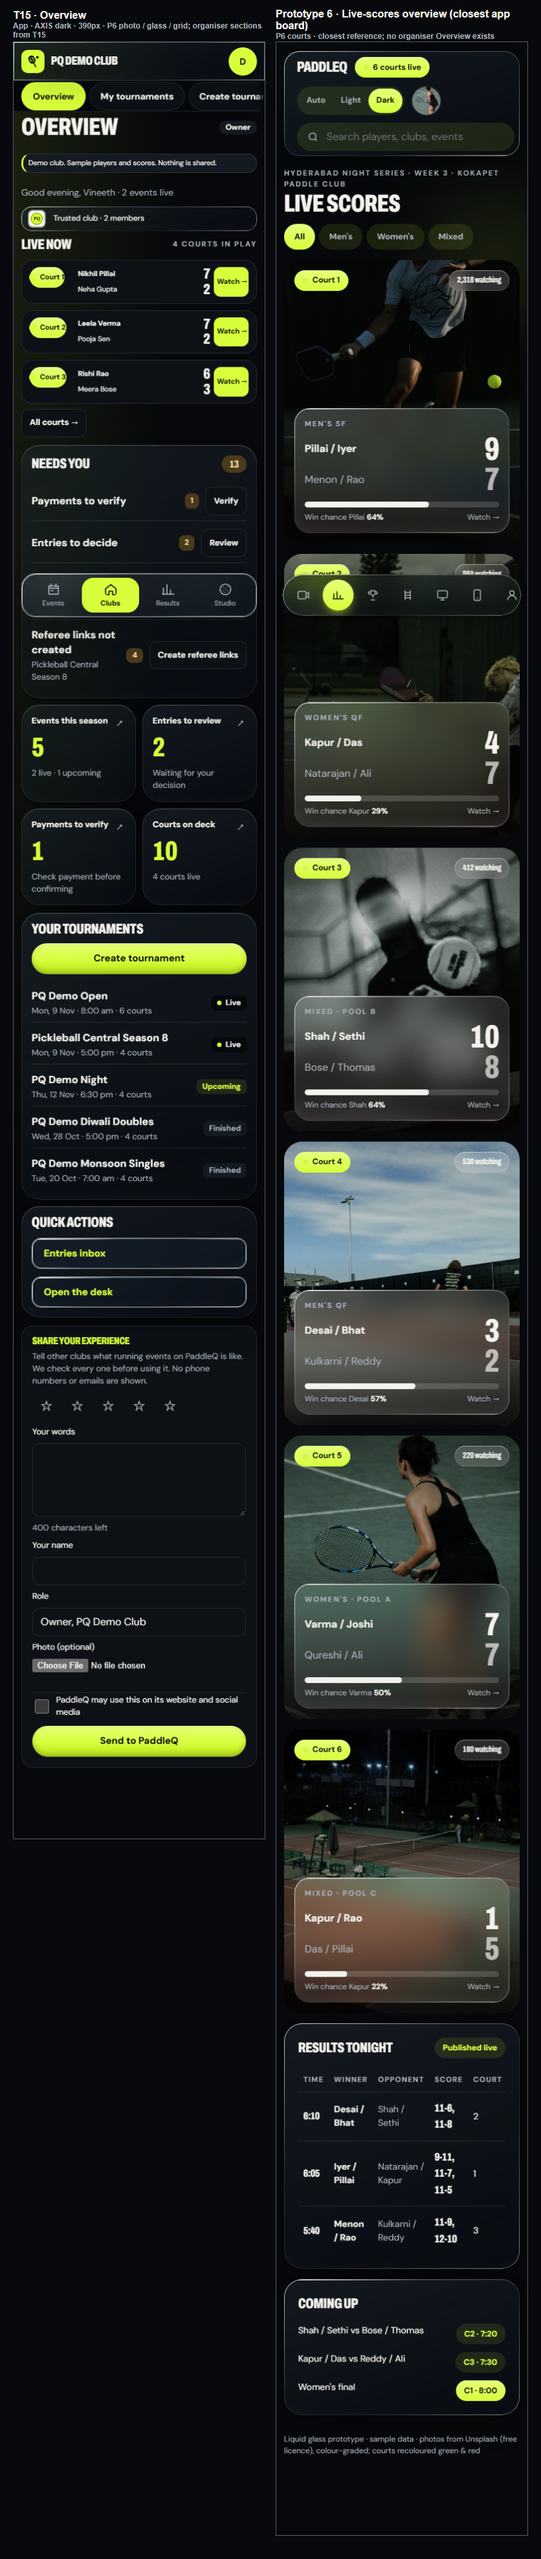
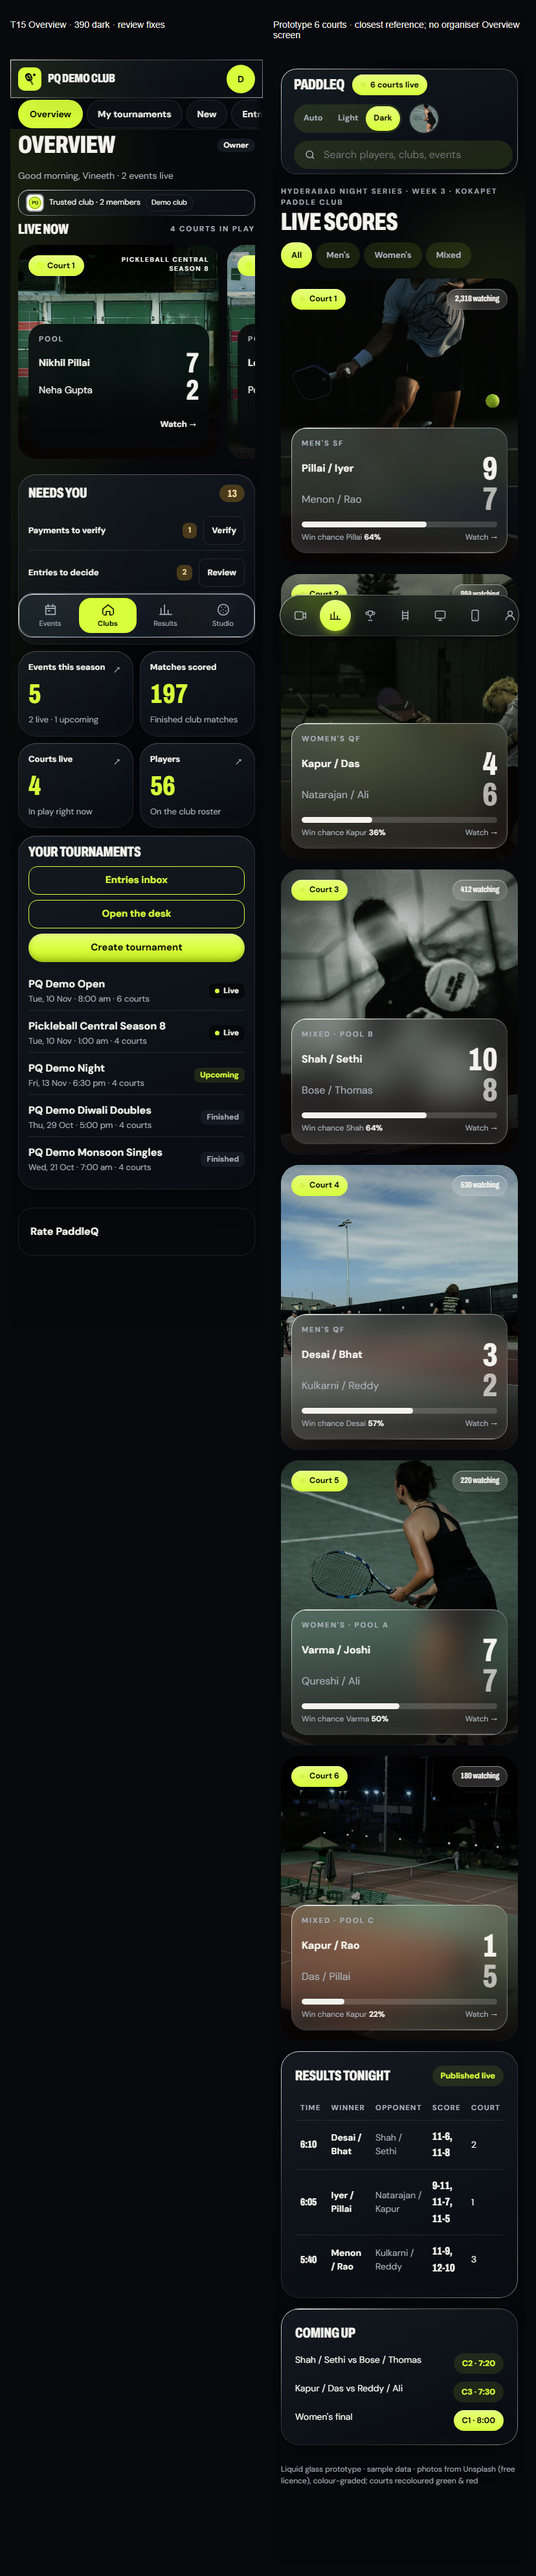
fix(ui): address all T15 visual review points

Changed region(s): [[0.5133, 0.0, 0.9662, 0.9653], [0.0, 0.0, 0.4831, 0.5605], [0.0604, 0.5916, 0.4529, 0.6851]]

diff --git a/src/club/screens/ClubHome.tsx b/src/club/screens/ClubHome.tsx
@@ -37,26 +37,24 @@ export function ClubHome({ d, go }: { d: ClubBundle; go: Go }) {
   const liveMatches = d.matches.filter(m => m.status === 'live' && live.some(t => t.id === m.tournamentId));
   const players = new Map(d.players.map(p => [p.id,p]));
   const focus = live[0] ?? upcoming[0] ?? finished[0];
-  const countValue = (n: number) => counts.data ? n : '—';
   return <div className="pq-dash pq-overview pq-proto">
     <p className="pq-overview-greeting">{hello()}{counts.data?.name ? ', ' + counts.data.name : ''} · {live.length} {live.length === 1 ? 'event' : 'events'} live</p>
     <section className="pq-overview-strip pq-glass" aria-label="Club details">
       <span className="pq-band-logo">{d.club.logoUrl ? <img src={d.club.logoUrl} alt="" /> : initials(d.club.name)}</span>
-      <span>{[d.club.trusted ? 'Trusted club' : d.club.city, d.members.length + ' members'].filter(Boolean).join(' · ')}</span>
+      <span>{[d.club.trusted ? 'Trusted club' : d.club.city, d.members.length + ' members'].filter(Boolean).join(' · ')}</span>{b?.kind==='demo'&&<span className="pq-demo-inline" role="note" title="Demo club. Sample players and scores. Nothing is shared."><span className="pq-demo-long">Demo club. Sample players and scores. Nothing is shared.</span><span className="pq-demo-short">Demo club</span></span>}
     </section>
     {liveMatches.length > 0 && <section className="pq-overview-live" aria-label="Live now"><div className="ch"><h2>Live now</h2><span className="cap">{liveMatches.length} courts in play</span></div>
       <div className="pq-overview-courts">{liveMatches.map((m,i) => {
         const t=live.find(t=>t.id===m.tournamentId)!, game=m.games.at(-1);
-        return <article className={"photo court pq-overview-court"+(i>=3?" pq-overview-extra":"")} key={m.id}>
-          <div className="ph" style={{backgroundImage:"url("+import.meta.env.BASE_URL+"prototype6/"+["pb-man.jpg","woman-hit.jpg","court-night.jpg"][i%3]+")"}} />
+        return <article className="photo court pq-overview-court" key={m.id}>
+          <div className="ph" style={{backgroundImage:"url("+import.meta.env.BASE_URL+"prototype6/"+["court-night.jpg","court-day.jpg","under-lights.jpg","arena-night.jpg"][i%4]+")"}} />
           <div className="pq-overview-court-head"><span className="chip b"><i className="pq-live-dot" aria-hidden="true" />Court {m.court??"—"}</span><span className="cap">{t.name}</span></div>
           <div className="pq-overview-court-body lgd"><div className="cap">{STAGE_LABEL[m.stage]}</div>
             <div className="tmr"><b>{names(m.sideA,players)}</b><b className="n pq-score">{game?.a??0}</b></div>
             <div className="tmr"><span>{names(m.sideB,players)}</span><b className="n pq-score">{game?.b??0}</b></div>
-            {t.isPublic && <button type="button" className="pq-mini-btn" onClick={()=>go("results",t.publicSlug)}>Watch →</button>}
+            {t.isPublic && <button type="button" className="pq-watch-link" onClick={()=>go("results",t.publicSlug)}>Watch →</button>}
           </div></article>;
       })}</div>
-      {liveMatches.length>3 && <button type="button" className="pq-mini-btn pq-overview-all" onClick={()=>go(live[0].isPublic?"results":"club-desk",live[0].isPublic?live[0].publicSlug:live[0].id)}>All courts →</button>}
     </section>}
     <div className="pq-overview-middle">
       <Panel title="Needs you" action={<span className="pq-overview-count pq-score">{counts.data ? needs : '—'}</span>}>
@@ -65,24 +63,21 @@ export function ClubHome({ d, go }: { d: ClubBundle; go: Go }) {
         {counts.data && needs === 0 && <p className="small muted">Nothing needs you right now.</p>}
         {claims.length > 0 && <Row title="Payments to verify" tag={claims.length} tagKind="action" right={<MiniBtn onClick={() => go('club-inbox',claims[0].tournamentId)}>Verify</MiniBtn>} />}
         {pending.length > 0 && <Row title="Entries to decide" tag={pending.length} tagKind="action" right={<MiniBtn onClick={() => go('club-inbox',pending[0].tournamentId)}>Review</MiniBtn>} />}
-        {missing.map(x => <Row key={x.t.id} title="Referee links not created" sub={x.t.name} tag={x.count} tagKind="action" right={<MiniBtn onClick={() => go('club-scorers',x.t.id)}>Create referee links</MiniBtn>} />)}
+        {missing.length > 0 && <Row title="Referee links not created" sub={missing.length + (missing.length === 1 ? " tournament" : " tournaments")} tag={missing.reduce((n,x)=>n+x.count,0)} tagKind="action" right={<MiniBtn onClick={() => go('club-scorers',missing[0].t.id)}>Create</MiniBtn>} />}
       </Panel>
       <div className="pq-kpis">
         <Kpi label="Events this season" value={open.length} sub={live.length + ' live · ' + upcoming.length + ' upcoming'} onClick={() => go('club-view',d.club.id+'.tournaments')} />
-        <Kpi label="Entries to review" value={countValue(pending.length)} sub="Waiting for your decision" onClick={pending[0] ? () => go('club-inbox',pending[0].tournamentId) : undefined} />
-        <Kpi label="Payments to verify" value={countValue(claims.length)} sub="Check payment before confirming" onClick={claims[0] ? () => go('club-inbox',claims[0].tournamentId) : undefined} />
-        <Kpi label="Courts on deck" value={live.reduce((n,t)=>n+t.courts,0)} sub={liveMatches.length + ' courts live'} onClick={live[0] ? () => go('club-desk',live[0].id) : undefined} />
+        <Kpi label="Matches scored" value={d.matches.filter(m=>m.status==='done'&&m.games.length>0).length} sub="Finished club matches" />
+        <Kpi label="Courts live" value={liveMatches.length} sub="In play right now" onClick={live[0] ? () => go('club-desk',live[0].id) : undefined} />
+        <Kpi label="Players" value={d.players.length} sub="On the club roster" onClick={() => go('club-view',d.club.id+'.players')} />
       </div>
     </div>
     <div className="pq-overview-bottom">
-      <Panel title="Your tournaments" action={staff && <button type="button" className="btn btn-primary" onClick={() => go('club-tournament-new',d.club.id)}>Create tournament</button>}>
+      <Panel title="Your tournaments" action={staff && <div className="pq-overview-actions">{focus && <><button className="btn btn-outline" type="button" onClick={() => go('club-inbox',focus.id)}>Entries inbox</button><button className="btn btn-outline" type="button" onClick={() => go('club-desk',focus.id)}>Open the desk</button></>}<button type="button" className="btn btn-primary" onClick={() => go('club-tournament-new',d.club.id)}>Create tournament</button></div>}>
         {[...live,...upcoming,...pastDrafts,...finished].map(t => <Row key={t.id} title={t.name} sub={friendlyDate(t.startDate)+' · '+friendlyTime(t.startTime)+' · '+t.courts+' courts'} tag={t.status==='live'?'Live':t.status==='done'?'Finished':t.startDate<today?'Draft':'Upcoming'} tagKind={t.status==='live'?'live':t.status==='done'?'plain':'ready'} onClick={() => go('club-tournament',t.id)} />)}
         {open.length === 0 && <p className="small muted">No tournaments yet. Create your first one.</p>}
       </Panel>
-      {staff && focus && <Panel title="Quick actions"><div className="pq-overview-quick">
-        <button className="btn btn-outline pq-glass" type="button" onClick={() => go('club-inbox',focus.id)}>Entries inbox</button>
-        <button className="btn btn-outline pq-glass" type="button" onClick={() => go('club-desk',focus.id)}>Open the desk</button>
-      </div></Panel>}
+
     </div>
   </div>;
 }

diff --git a/src/prototype6.css b/src/prototype6.css
@@ -31,7 +31,7 @@
 .pq-overview .pq-kpis{display:grid;grid-template-columns:repeat(2,minmax(0,1fr));gap:16px;margin:0}
 .pq-overview :is(.pq-kpi,.pq-panel){padding:22px;margin:0;border:0}
 .pq-overview .pq-kpi-value{font-size:48px;line-height:1;margin:6px 0;color:var(--pq-maroon-text)}
-.pq-overview-bottom{display:grid;grid-template-columns:minmax(0,2fr) minmax(0,1fr);gap:16px;align-items:start}
+.pq-overview-bottom{display:grid;grid-template-columns:1fr;gap:16px;align-items:start}
 .pq-overview-count{padding:2px 12px;border-radius:999px;color:var(--warn-fg);background:var(--warn-bg)}
 .pq-overview-quick{display:grid;gap:12px}.pq-overview-quick .btn{border:1px solid var(--pq-muted);text-align:left;justify-content:flex-start;min-height:48px}
 .pq-overview-all{display:none;align-items:center;justify-content:center}
@@ -43,7 +43,7 @@
 :root[data-skin=axis][data-theme=dark] .pq-demo-note{background:#141A21}
 @media(prefers-color-scheme:dark){:root[data-skin=axis][data-theme=auto] .pq-demo-note{background:#141A21}}
 .pq-account-menu{display:contents}.pq-account-menu>summary{display:none}
-@media(max-width:1099px){.pq-overview-courts{grid-template-columns:repeat(2,minmax(0,1fr))}.pq-overview-middle,.pq-overview-bottom{grid-template-columns:1fr 1fr}}
+@media(max-width:1099px){.pq-overview-courts{grid-template-columns:repeat(2,minmax(0,1fr))}.pq-overview-middle{grid-template-columns:1fr 1fr}}
 @media(max-width:599px){
 .app.pq-brand .pq-ws-top{flex-wrap:nowrap;padding:8px 12px;gap:10px;height:60px;min-height:60px}
 .pq-ws-identity{flex:1;min-width:0;overflow:hidden}.pq-ws-identity strong{font-size:19px;white-space:nowrap;overflow:hidden;text-overflow:ellipsis}
@@ -62,15 +62,15 @@
 .pq-overview-screen>.notice{font-size:11px;padding:6px 8px;margin:4px 0 8px}
 .pq-overview{gap:12px}.pq-overview-strip{padding:5px 10px}
 .pq-overview-courts,.pq-overview-middle,.pq-overview-bottom{grid-template-columns:1fr;gap:10px}
-.pq-overview .court{min-height:0;padding:10px 12px;display:grid;grid-template-columns:65px 1fr;gap:10px;border-radius:18px;background:var(--pq-surface);color:var(--pq-ink);border:1px solid var(--pq-line)}
-.pq-overview .court :is(.ph,.cap),.pq-overview .court::before,.pq-overview .court::after,.pq-overview .pq-overview-extra{display:none}
-.pq-overview-court-head .chip{padding:0;background:transparent;color:var(--pq-maroon-text);font-size:11px;white-space:normal}
-.pq-overview .court .lgd{display:grid;grid-template-columns:1fr 54px;padding:0;background:none;box-shadow:none;backdrop-filter:none;color:var(--pq-ink);gap:2px 6px}
-.pq-overview .court .tmr{font-size:11px;gap:6px}.pq-overview .court .tmr .n{font-size:23px}
-.pq-overview .court .pq-mini-btn{grid-column:2;grid-row:1/span 2;font-size:11px;padding:0 4px;min-height:44px;margin:0}
-.pq-overview .court .tmr{grid-column:1}
+.pq-overview-courts{display:flex;overflow-x:auto;scroll-snap-type:x mandatory;padding-bottom:12px;gap:12px}.pq-overview-courts>.court{flex:0 0 85%;min-height:330px;scroll-snap-align:start}.pq-overview .court .tmr{font-size:15px}.pq-overview .court .tmr .n{font-size:44px}
 .pq-overview .pq-kpis{gap:10px}.pq-overview :is(.pq-kpi,.pq-panel){padding:16px}.pq-overview .pq-kpi-value{font-size:42px}
 .pq-overview-all{display:flex;margin-top:8px}.pq-overview .pq-panel-head .btn{width:100%}
 }
 @media(prefers-reduced-motion:reduce),(prefers-reduced-transparency:reduce),(update:slow){.pq-proto :is(.lg,.lgd,.pq-panel,.pq-kpi){backdrop-filter:none;-webkit-backdrop-filter:none;background:var(--pq-surface);color:var(--pq-ink)}}
 [data-pq-effects=off] .pq-proto :is(.lg,.lgd,.pq-panel,.pq-kpi){backdrop-filter:none;-webkit-backdrop-filter:none;background:var(--pq-surface);color:var(--pq-ink)}
+
+.pq-overview .pq-watch-link{display:block;margin:8px 0 0 auto;min-height:44px;padding:0 4px;background:none;border:0;color:var(--pq-hero-text);font:700 13px var(--pq-font-body);cursor:pointer}.pq-overview-strip{flex-wrap:wrap;padding:6px 12px}.pq-overview-strip .pq-demo-note{padding:0;margin:0;border:0;background:none!important;font-size:11px}.pq-overview-actions{display:flex;gap:8px;flex-wrap:wrap}.pq-overview-actions .btn{min-height:44px}.pq-rating-card{padding:14px 18px;border:1px solid var(--pq-line);border-radius:22px;margin-top:16px}.pq-rating-card>summary{cursor:pointer;min-height:44px;display:flex;align-items:center;font-weight:700}.pq-overview-middle{grid-template-columns:minmax(0,1.2fr) minmax(0,1.8fr)}.pq-overview .pq-lrow-main{min-width:0}.pq-overview-middle .pq-lrow{flex-wrap:nowrap}.pq-overview-middle .pq-lrow-main b{font-size:13px}.pq-ws-tabs{mask-image:linear-gradient(90deg,#000 calc(100% - 18px),transparent)}.pq-ws-tabs:focus-within{mask-image:none}@media(max-width:869px){.pq-overview-middle{grid-template-columns:1fr}}
+
+.pq-overview,.pq-overview>*{min-width:0;max-width:100%}.pq-overview-courts{min-width:0;width:100%}.pq-overview-courts>.court{min-width:0}.pq-overview-actions{min-width:0}.pq-rating-card{position:relative;isolation:isolate;flex:none}
+
+.pq-demo-inline{font-size:11px;padding:4px 8px;border:1px solid var(--pq-line);border-radius:999px}.pq-demo-short{display:none}@media(max-width:599px){.pq-demo-long{display:none}.pq-demo-short{display:inline}.pq-overview-strip{gap:8px}}

diff --git a/src/clubApp/Workspace.tsx b/src/clubApp/Workspace.tsx
@@ -196,10 +196,10 @@ export function WorkspaceNav({ kind, route, go, admin }: { kind: WorkspaceKind; 
           <button type="button" className="pq-ws-item" aria-label="Events board" title="Events board" onClick={() => go('events')}><span className="pq-ws-glyph" aria-hidden="true">◈</span><span className="pq-ws-label">Events board</span></button>
         </div>
       </nav>
-      <WorkspaceTop title={kind === 'club' ? c.club ?? 'Club' : g.title} area={kind === 'club' ? current?.name ?? g.area : g.area} workspace={g.title} identityHeading={kind==='club'&&active==='overview'&&c.staff!==false} live={live} go={go} />
+      <WorkspaceTop showSkin={kind==='admin'} title={kind === 'club' ? c.club ?? 'Club' : g.title} area={kind === 'club' ? current?.name ?? g.area : g.area} workspace={g.title} identityHeading={kind==='club'&&active==='overview'&&c.staff!==false} live={live} go={go} />
       <nav className="pq-ws-tabs" tabIndex={0} onFocusCapture={(e) => { if (e.target !== e.currentTarget) e.target.scrollIntoView?.({ block: 'nearest', inline: 'nearest' }); }} aria-label={`${g.title} sections`}>
         {g.groups.flatMap((grp) => grp.items).map((i) => (
-          <button key={i.key} type="button" aria-current={active === i.key ? 'page' : undefined} disabled={!i.to} onClick={() => open(i)}>{i.label}</button>
+          <button key={i.key} type="button" aria-current={active === i.key ? 'page' : undefined} disabled={!i.to} aria-label={i.label} onClick={() => open(i)}>{i.key==='create'?'New':i.label}</button>
         ))}
       </nav>
     </>
@@ -207,7 +207,7 @@ export function WorkspaceNav({ kind, route, go, admin }: { kind: WorkspaceKind; 
 }
 
 /** Laptop top bar: where you are, and your account with Sign out. */
-function WorkspaceTop({ title, area, workspace, identityHeading, live, go }: { title: string; area: string; workspace: string; identityHeading:boolean; live: { count: number; slug?: string }; go: Go }) {
+function WorkspaceTop({ title, area, workspace, identityHeading, live, go, showSkin }: { showSkin:boolean; title: string; area: string; workspace: string; identityHeading:boolean; live: { count: number; slug?: string }; go: Go }) {
   const [email, setEmail] = useState<string | null>(null);
   useEffect(() => { let on = true; eventsBackend().currentUser().then((u) => { if (on) setEmail(u?.email ?? null); }, () => undefined); return () => { on = false; }; }, []);
   const [compact,setCompact]=useState(()=>window.matchMedia('(max-width:599px)').matches);
@@ -221,7 +221,7 @@ function WorkspaceTop({ title, area, workspace, identityHeading, live, go }: { t
       <div className="pq-ws-identity"><span className="pq-ws-product">PaddleQ · {workspace}</span><strong role={identityHeading?"heading":undefined} aria-level={identityHeading?2:undefined}>{title}</strong><span className="pq-ws-crumb">{area}</span></div>
       <details className="pq-account-menu" open={!compact||accountOpen} onToggle={e=>{if(compact)setAccountOpen(e.currentTarget.open);}} onKeyDown={e=>{if(e.key==="Escape")setAccountOpen(false);}}><summary aria-label="Account menu">{initials}</summary><div className="pq-ws-actions">
         {live.count > 0 && <button type="button" className="pq-shell-live" onClick={() => live.slug ? go('results', live.slug) : go('club-results')}><i className="pq-live-dot" aria-hidden="true" /><span><b className="pq-score">{live.count}</b> {live.count === 1 ? 'court live' : 'courts live'}</span></button>}
-        <ThemeControls />
+        <ThemeControls showSkin={showSkin} />
         {email && <button type="button" className="pq-ws-signout" onClick={() => void signOut()}>Sign out</button>}
         <span className="pq-ws-avatar" aria-hidden="true">{initials}</span>
       </div></details>

diff --git a/src/club/screens/ClubView.tsx b/src/club/screens/ClubView.tsx
@@ -37,7 +37,7 @@ export function ClubView({ clubId: routeId, go, onBack }: { clubId: string; go: 
     <main className={"screen wide-ok"+(tab==="overview"?" pq-overview-screen":"")} aria-labelledby="clubview-title">
       <Header id="clubview-title" title={tab==='overview'&&isClubApp()?'Overview':d?.club.name ?? 'Club'} onBack={tab==='overview'&&isClubApp()?undefined:onBack} right={d && <RoleBadge role={d.role} />} />
       <Status error={state.error} loading={state.loading && !d} />
-      <DemoNote b={b} />
+      {tab !== 'overview' && <DemoNote b={b} />}
       {d && (
         <>
           {(tab === 'events' || tab === 'profile') && <ClubHero b={b} clubId={d.club.id} club={d.club.name} city={d.club.city} logoUrl={d.club.logoUrl} canEdit={staff && !!b} onChanged={state.reload}
@@ -47,7 +47,7 @@ export function ClubView({ clubId: routeId, go, onBack }: { clubId: string; go: 
           {tab === 'overview' && <ClubHome d={d} go={go} />}
           {tab === 'guide' && <DayOfGuide d={d} go={go} />}
           {tab === 'events' && <Events d={d} go={go} reload={state.reload} />}
-          {(tab === 'overview' || tab === 'events') && isAdmin(d.role) && b && d.tournaments.some((x) => x.status === 'done') && <TestimonialsCard b={b} clubId={d.club.id} club={d.club.name} />}
+          {(tab === 'overview' || tab === 'events') && isAdmin(d.role) && b && d.tournaments.some((x) => x.status === 'done') && <details className="pq-rating-card"><summary>Rate PaddleQ</summary><TestimonialsCard b={b} clubId={d.club.id} club={d.club.name} /></details>}
           {tab === 'players' && <Players d={d} go={go} reload={state.reload} />}
           {tab === 'squad' && staff && <Squad d={d} go={go} />}
           {tab === 'profile' && staff && b && <LogoPicker b={b} clubId={d.club.id} club={d.club.name} current={d.club.logoUrl} onChanged={state.reload} />}

diff --git a/e2e/tests/overview.spec.ts b/e2e/tests/overview.spec.ts
@@ -10,8 +10,12 @@ test('overview has real live courts, compact phone frame, account settings and e
   const overviewUrl=page.url();
   const live=page.getByRole('region',{name:'Live now'});
   await expect(live).toBeVisible();
-  await expect(live.locator('.pq-overview-court:visible')).toHaveCount(3);
+  await expect(live.locator('.pq-overview-court:visible')).toHaveCount(4);
   await expect(live.locator('.pq-overview-court').first().locator('.pq-score')).toHaveCount(2);
+  const card=live.locator('.pq-overview-court').first();
+  expect(await card.locator('.tmr').first().evaluate(el=>parseFloat(getComputedStyle(el).fontSize))).toBeGreaterThanOrEqual(15);
+  expect(await card.locator('.pq-score').first().evaluate(el=>parseFloat(getComputedStyle(el).fontSize))).toBeGreaterThanOrEqual(40);
+  expect(await live.locator('.pq-overview-courts').evaluate(el=>el.scrollWidth>el.clientWidth)).toBeTruthy();
   expect((await live.boundingBox())!.y).toBeLessThan(350);
   expect((await page.getByRole('banner',{name:'Where you are'}).boundingBox())!.height).toBeLessThanOrEqual(64);
   expect((await page.getByRole('navigation',{name:'Club / Organiser sections'}).boundingBox())!.height).toBeLessThanOrEqual(48);

diff --git a/e2e/tests/events.spec.ts b/e2e/tests/events.spec.ts
@@ -262,6 +262,7 @@ test.describe('Club testimonials (demo club on the phone)', () => {
     await page.getByRole('button', { name: 'Open PQ Demo Club' }).click();
     await expect(page.getByRole('heading', { name: 'PQ Demo Club' })).toBeVisible();
     await page.setViewportSize({ width: 320, height: 640 });
+    await page.getByText('Rate PaddleQ', { exact: true }).click();
     const card = page.getByRole('region', { name: 'Share your experience' });
     await card.getByRole('button', { name: '5 stars' }).click();
     await card.getByLabel('Your words').fill('Our referees picked it up in five minutes. Players loved the live results.');
@@ -287,6 +288,7 @@ test.describe('Club testimonials (demo club on the phone)', () => {
     expect(await page.evaluate(() => document.documentElement.scrollWidth)).toBeLessThanOrEqual(320);
 
     await page.goto(clubUrl);
+    await page.getByText('Rate PaddleQ', { exact: true }).click();
     const mine = page.getByRole('region', { name: 'Testimonial from Robot Owner' });
     await expect(mine).toContainText('Approved · ★ Featured');
     await mine.getByRole('button', { name: 'Withdraw' }).click();

diff --git a/e2e/tests/axis-skin.spec.ts b/e2e/tests/axis-skin.spec.ts
@@ -9,9 +9,7 @@ for(const skin of ['axis','maroon'])for(const theme of ['light','dark'])test('sk
   await page.setViewportSize({width,height:900});await page.emulateMedia({colorScheme:theme==='light'?'dark':'light'});
   if(width<600)await header.locator('.pq-account-menu').evaluate(el=>el.setAttribute('open',''));
   if(width<870)await header.locator('.pq-theme-settings').evaluate(el=>el.setAttribute('open',''));
-  else await header.locator('.pq-skin-settings').evaluate(el=>el.setAttribute('open',''));
-  await header.getByLabel('Colour skin').filter({visible:true}).selectOption(skin);
-  if(width>=870)await header.locator('.pq-skin-settings').evaluate(el=>el.removeAttribute('open'));
+  if(width<870)await header.getByLabel('Colour skin').filter({visible:true}).selectOption(skin);
   await header.getByRole('button',{name:theme==='light'?'Light':'Dark',exact:true}).filter({visible:true}).click();
   if(width<870)await header.locator('.pq-theme-settings').evaluate(el=>el.removeAttribute('open'));
   await expect(page.locator('html')).toHaveAttribute('data-skin',skin);

diff --git a/src/components/ThemeSwitch.tsx b/src/components/ThemeSwitch.tsx
@@ -11,10 +11,10 @@ export function ThemeSwitch() {
 }
 
 /** The same setting in the top bar on laptops and a Settings disclosure on phones. No new route. */
-export function ThemeControls() {
+export function ThemeControls({showSkin=false}:{showSkin?:boolean}) {
   return <>
     <div className="pq-theme-desktop"><ThemeSwitch /></div>
-    <details className="pq-skin-settings"><summary>Skin</summary><div className="pq-theme-panel pq-glass"><SkinSwitch /></div></details>
+    {showSkin && <details className="pq-skin-settings"><summary>Skin</summary><div className="pq-theme-panel pq-glass"><SkinSwitch /></div></details>}
     <details className="pq-theme-settings">
       <summary>Settings</summary>
       <div className="pq-theme-panel pq-glass"><h2>Theme</h2><ThemeSwitch /><p>Auto follows your device.</p><SkinSwitch /></div>
